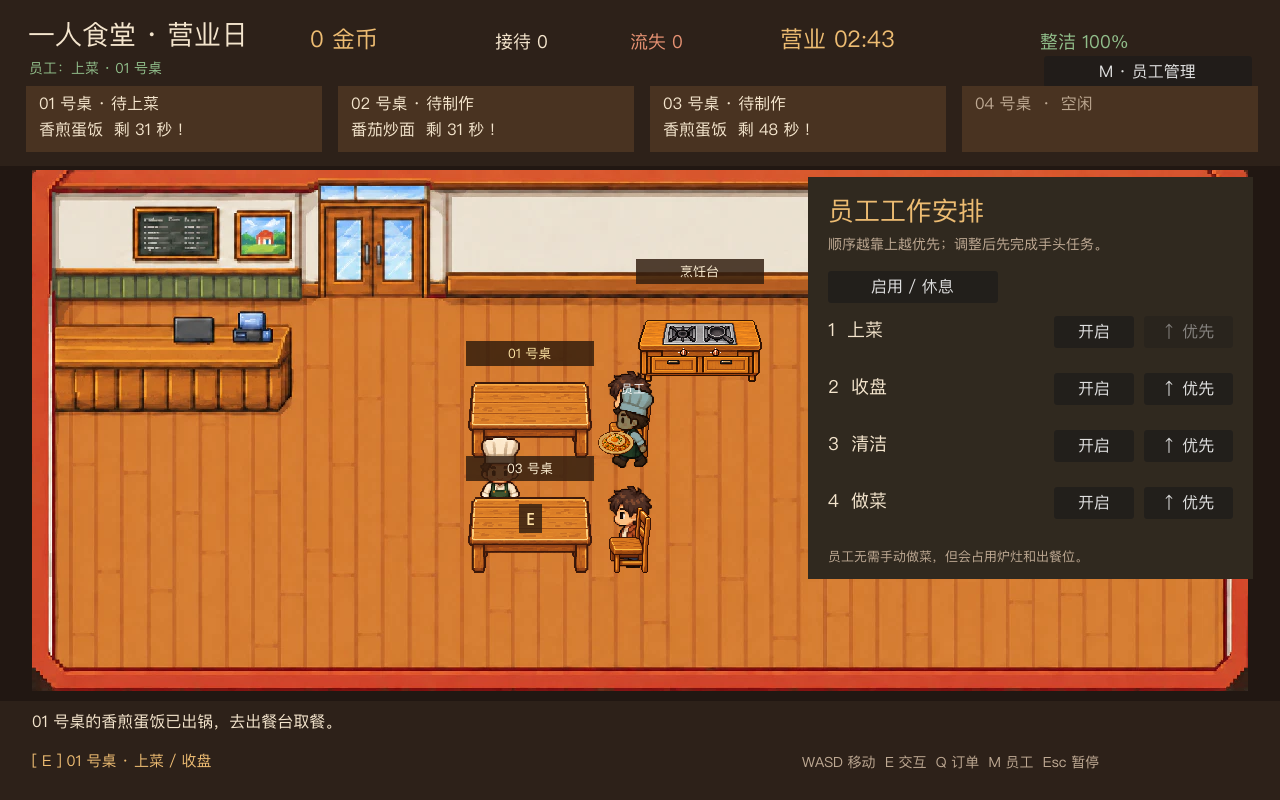
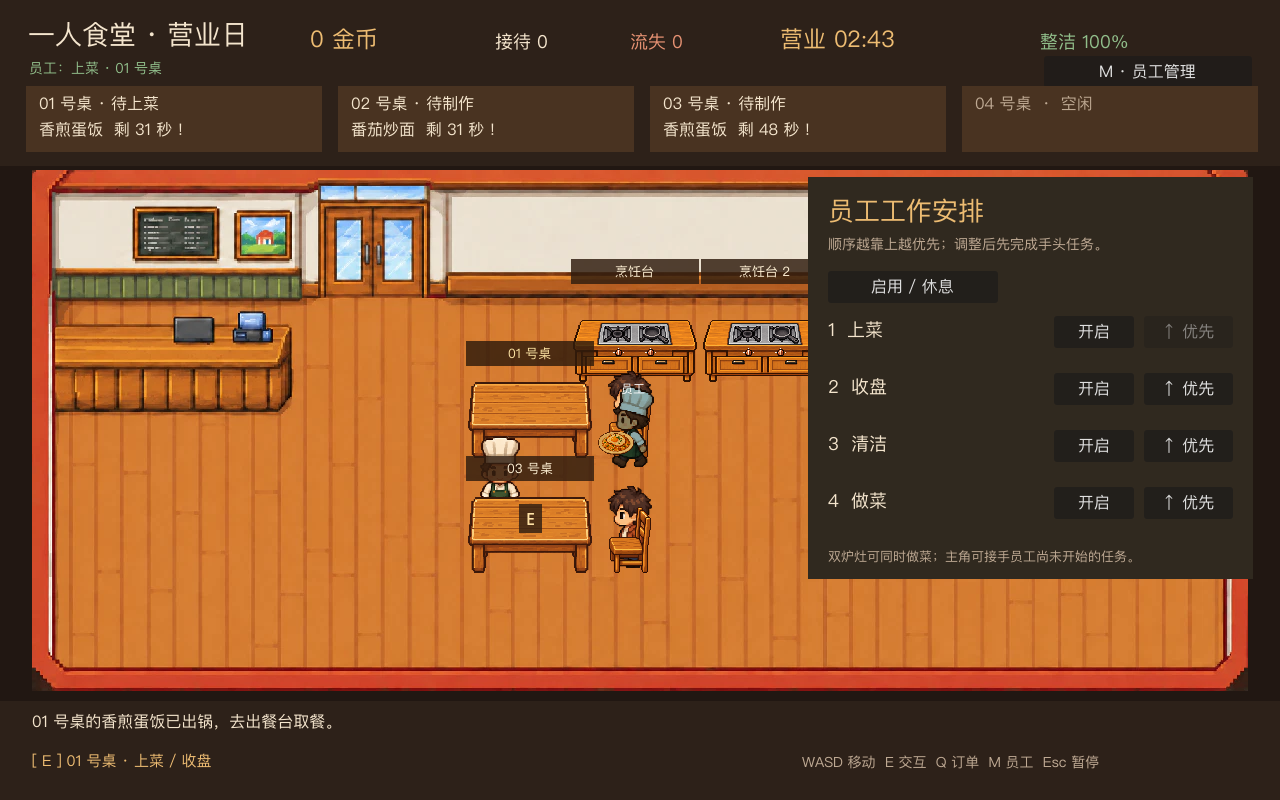
Add two cooking stations and player task priority

Changed region(s): [[0.4375, 0.3125, 0.6562, 0.5], [0.6562, 0.6875, 0.875, 0.7188]]

diff --git a/docs/stage-3.md b/docs/stage-3.md
@@ -8,7 +8,7 @@
 
 游戏开始时员工就在店里工作。顶部状态栏显示当前任务；按 M 或点击“员工管理”可以调整整名员工启用或休息、分别开启或关闭上菜/收盘/清洁/做菜，以及点击“↑ 优先”把某类工作上移一位。默认顺序是上菜、收盘、清洁、做菜。
 
-设置只影响新任务；正在搬运的食物和餐盘会先送达。主角随时能处理其他未被预留的工作。日结显示员工各类工作完成数。
+设置只影响新任务；正在搬运的食物和餐盘会先送达。主角可接手员工尚在前往目标地点的任务；员工已开始制作或拿起物品后，主角改做其他工作。日结显示员工各类工作完成数。
 
 ![员工管理界面](stage-3-management.webp)
 
@@ -16,14 +16,14 @@
 
 ## 任务与资源规则
 
-员工领取任务时立即写入执行者，再开始走路。按优先级、顾客剩余耐心和距离选择工作；炉灶、出餐位、菜品和脏桌只允许一个执行者。玩家尝试拿已由员工领取的菜时会看到提示。员工拿到食物后走到对应餐桌；收盘后把餐盘送回回收台；清洁时走到对应污渍旁。做菜使用同一 `CookingModel`，不同菜品保留各自烹饪速度和品质结算。
+员工领取任务时先预留，再开始走路；员工之间的预留互斥，主角优先级更高，可覆盖员工尚未开工的预留。两个烹饪台可独立做菜，出餐台最多容纳两份菜；烹饪开工前预留对应的出餐容量，避免出锅时无处放菜。员工拿到食物后走到对应餐桌；收盘后把餐盘送回回收台；清洁时走到对应污渍旁。做菜使用同一 `CookingModel`，不同菜品保留各自烹饪速度和品质结算。
 
 员工在约 20 像素的网格上绕开墙、收银台、炉灶、桌椅等静态障碍。目标位置不在可达区域时显示“路径不可达”，释放任务并尝试别的工作。订单超时会释放其预留；若员工已端着失效菜品，会先送至回收台。路径仍不可达时，会安全移除失效物品，不会一直占住双手。被取消的收盘任务恢复为待收盘状态；出餐失败时，食物回到空闲出餐位，避免遗失。
 
 ## 验证与首轮评估
 
-- 规则测试覆盖做菜与取餐争抢、收盘争抢、超时餐食回收、任务中断恢复、重复结算和旧订单失效。
+- 规则测试覆盖双炉灶同时做菜、两份菜出餐、主角接手员工路上的做菜/上菜/收盘/清洁任务、员工已开工后的独占、超时餐食回收、任务中断恢复和旧订单失效。
 - 场景测试覆盖四类自动工作、任务关闭与优先级、工作中修改设置、不可达目标以及连续三个营业日；三个模拟日各接待 6 桌，均正常日结且没有残留任务预留。
-- 固定客流和相同脚本化主角操作下，纯手动完成 **7 桌、流失 4 位、主角操作 50 次**；员工协作完成 **13 桌、流失 0 位、主角操作 39 次，员工完成 24 项工作**。这只是可复现的规则与节奏对比，不代表真人试玩成绩，实际游戏体验仍需进一步调参。
+- 固定客流和相同脚本化主角操作下，纯手动完成 **7 桌、流失 4 位、主角操作 50 次**；员工协作完成 **13 桌、流失 0 位、主角操作 45 次，员工完成 22 项工作**。这只是可复现的规则与节奏对比，不代表真人试玩成绩，实际游戏体验仍需进一步调参。
 
 所有新预览图均使用压缩 WebP，单张小于 400KB；员工暂用现有厨师图片着色区分，后续可直接替换其 `Avatar` 场景图片。

diff --git a/docs/stage-2.md b/docs/stage-2.md
@@ -6,7 +6,7 @@
 
 ## 一局的流程
 
-顾客按低峰或高峰节奏到店，每张空桌只分配一位顾客。顶部四张订单卡展示状态、菜品与剩余耐心；不足 12 秒会变红。按 Q 切换待做订单，靠近烹饪台按 E 进入对应菜品的小游戏。做好的菜占用唯一出餐位，需取走并送到正确餐桌。顾客用餐、付款、评价后离店；玩家收盘并回收餐盘，桌位重新可用。每完成两桌出现一处污渍；空手靠近污渍按 E 清洁。污渍上限三处。
+顾客按低峰或高峰节奏到店，每张空桌只分配一位顾客。顶部四张订单卡展示状态、菜品与剩余耐心；不足 12 秒会变红。按 Q 切换待做订单，靠近烹饪台按 E 进入对应菜品的小游戏。后续协作版本增至两个烹饪台和两个出餐位置；做好的菜需取走并送到正确餐桌。顾客用餐、付款、评价后离店；玩家收盘并回收餐盘，桌位重新可用。每完成两桌出现一处污渍；空手靠近污渍按 E 清洁。污渍上限三处。
 
 营业到 180 秒后停止接待新顾客，并给 35 秒收尾；若所有工作提前清完，立即进入日结。收尾期结束后强制结算。日结显示收入、完成桌数、等餐流失、好差评、剩余污渍及平均等餐时间，并明确说明流失原因。
 
